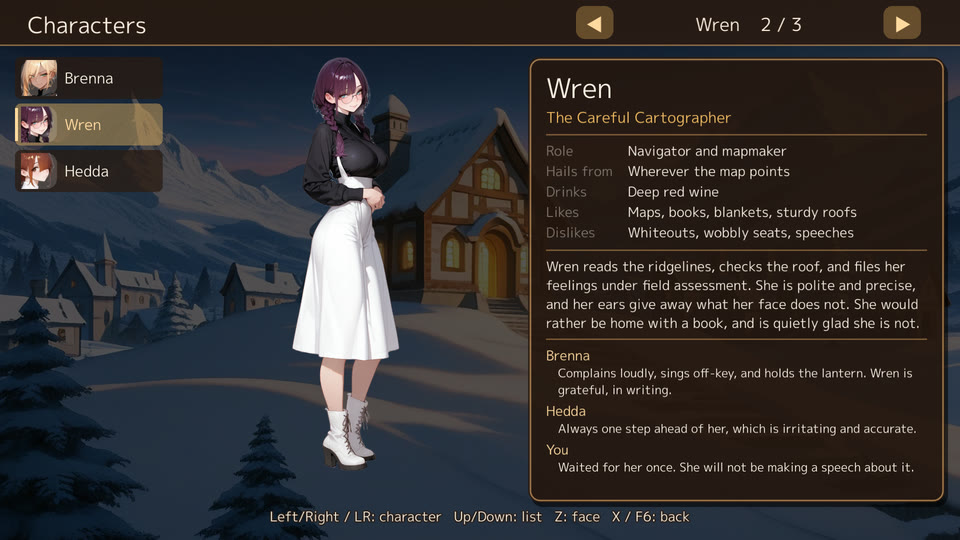
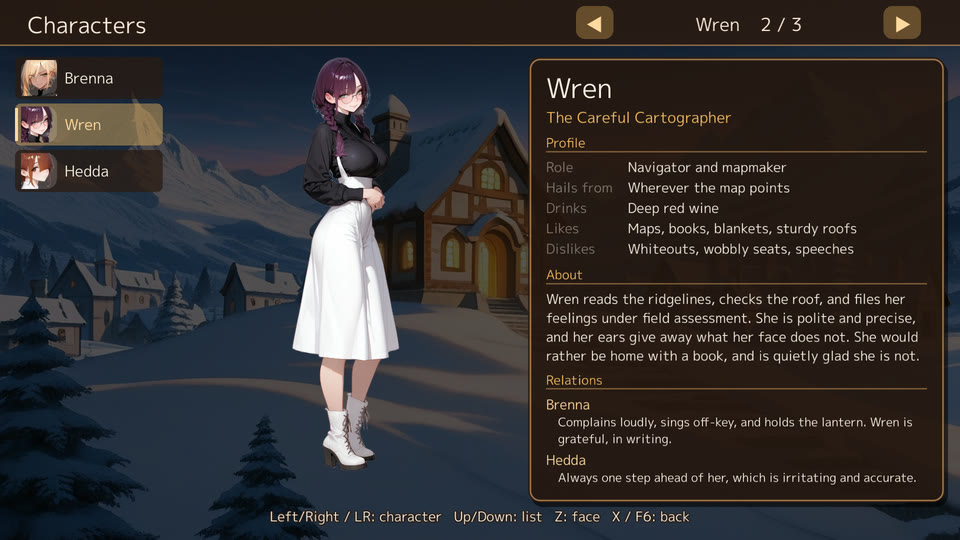
feat(play): head the character book's sections like the monster book

Changed region(s): [[0.5625, 0.237, 0.9688, 0.8889]]

diff --git a/internal/play/profiles.go b/internal/play/profiles.go
@@ -474,9 +474,14 @@ func (s *profileScreen) drawInfo(g *Game, dst *ebiten.Image, id string) {
 		y += s.lines(g, dst, data.Render(p.Title, s.env), x, y, w, sizeS, bottom, g.th.accent)
 	}
 	y += 8
+	heading := func(label string) {
+		g.text(dst, label, x, y, sizeS*0.85, g.th.accent)
+		y += gfx.LineHeight(sizeS*0.85) + 2
+		s.rule(g, dst, x, y-3, w)
+		y += 6
+	}
 	if len(p.Fields) > 0 {
-		s.rule(g, dst, x, y, w)
-		y += 10
+		heading(lang.T("プロフィール"))
 		labelW := 0.0
 		for _, f := range p.Fields {
 			labelW = max(labelW, gfx.TextWidth(f.Label, sizeS*0.9))
@@ -492,15 +497,13 @@ func (s *profileScreen) drawInfo(g *Game, dst *ebiten.Image, id string) {
 		y += 8
 	}
 	if p.Text != "" {
-		s.rule(g, dst, x, y, w)
-		y += 10
+		heading(lang.T("紹介"))
 		y += s.lines(g, dst, strings.TrimSpace(data.Render(p.Text, s.env)), x, y, w, sizeS*0.9, bottom, g.th.text) + 8
 	}
 	if len(p.Relations) == 0 {
 		return
 	}
-	s.rule(g, dst, x, y, w)
-	y += 10
+	heading(lang.T("関係"))
 	for _, r := range p.Relations {
 		if y+gfx.LineHeight(sizeS*0.9) > bottom {
 			return

diff --git a/internal/text/catalog/english.go b/internal/text/catalog/english.go
@@ -431,9 +431,12 @@ var english = map[string]string{
 	// screens: the character book (ADR 0031)
 	"キャラクター": "Characters",
 	"←→ / LR: キャラ   ↑↓: 一覧   Z: 表情   X / F6: もどる": "Left/Right / LR: character   Up/Down: list   Z: face   X / F6: back",
-	"あなた": "You",
-	"「":   "“",
-	"」":   "”",
+	"あなた":    "You",
+	"プロフィール": "Profile",
+	"紹介":     "About",
+	"関係":     "Relations",
+	"「":      "“",
+	"」":      "”",
 	// screens: the balance panel (development)
 	"バランス": "Balance",
 	"%d戦・seed %d（gozen sim battle --state と同じ。今の HP は --as-is）": "%d battles, seed %d (as gozen sim battle --state; current HP as --as-is)",
